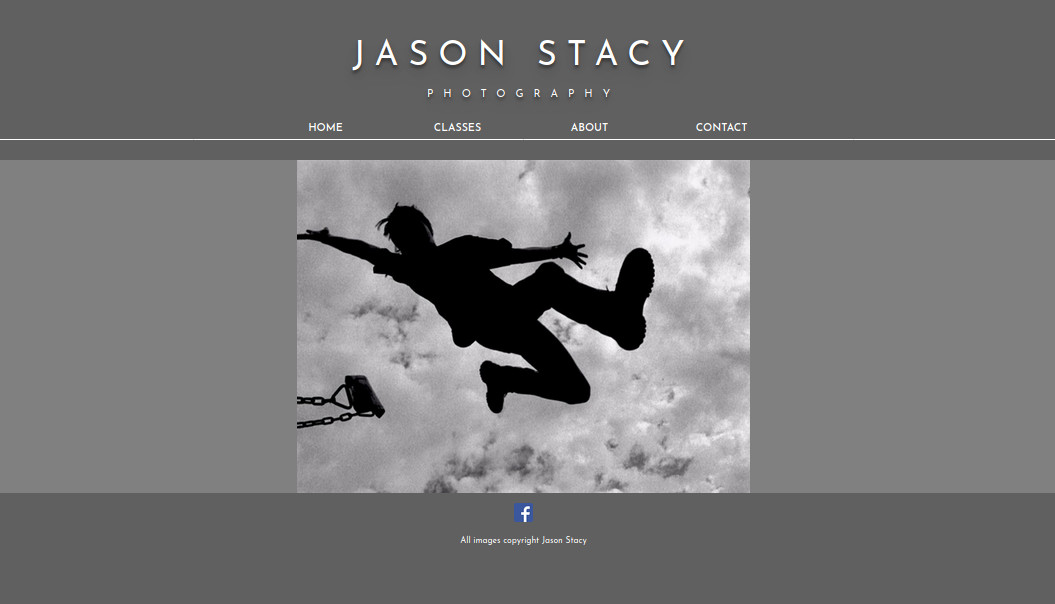
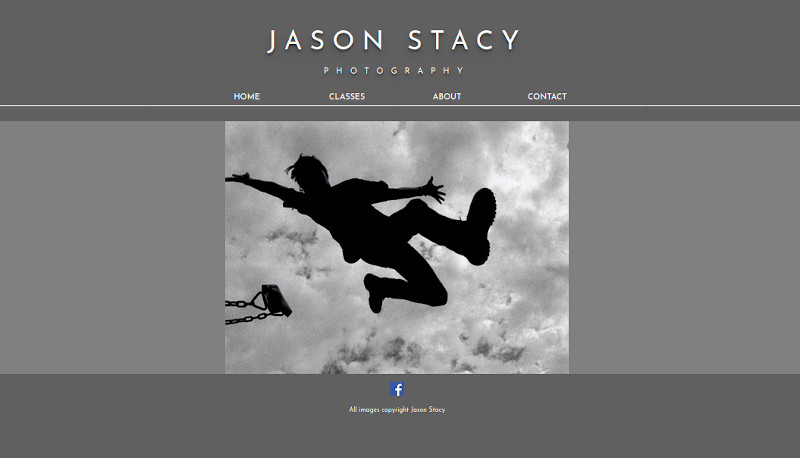
create web.html template

diff --git a/src/styles/web_styles.css b/src/styles/web_styles.css
@@ -10,7 +10,7 @@
 
 body {
   font-family: 'Abel', sans-serif;
-  background-image: url("../images/back1.jpg");
+  background-image: url("../images/back2.jpg");
   background-color: #eeeeee;
   background-size: cover;
   -webkit-background-size: cover;
@@ -53,7 +53,7 @@ body {
 
 #hamnav {
   width: 100%;
-  background: #000;
+  background: black;
   top: 0;
 }
 
@@ -70,49 +70,32 @@ body {
 }
 
 header .title-box {
-  background: -webkit-gradient(linear, left top, right top, from(rgba(0, 0, 0, 0)), color-stop(10%, rgba(53, 53, 53, 0.82)), color-stop(30%, black), to(black));
-  background: linear-gradient(90deg, rgba(0, 0, 0, 0) 0%, rgba(53, 53, 53, 0.82) 10%, black 30%, black 100%);
-  margin-left: 30%;
-  margin-right: 0px;
-  margin-top: 5%;
-  margin-bottom: 50%;
+  text-align: center;
+  vertical-align: middle;
+  background: -webkit-gradient(linear, left top, left bottom, from(rgba(53, 53, 53, 0.82)), color-stop(45%, black), color-stop(55%, black), to(rgba(53, 53, 53, 0.82)));
+  background: linear-gradient(180deg, rgba(53, 53, 53, 0.82) 0%, black 45%, black 55%, rgba(53, 53, 53, 0.82) 100%);
+  height: 70px;
+  -webkit-box-shadow: 10px 9px 5px -1px rgba(0, 0, 0, 0.26);
+          box-shadow: 10px 9px 5px -1px rgba(0, 0, 0, 0.26);
+  display: -webkit-box;
+  display: -ms-flexbox;
+  display: flex;
+  -webkit-transition: letter-spacing 1s;
+  transition: letter-spacing 1s;
+  width: 300px;
+  margin: auto;
+  margin-top: 50px;
   text-align: center;
   border-radius: .2em;
-  -webkit-animation-name: fade-in;
-          animation-name: fade-in;
-  -webkit-animation-duration: 4s;
-          animation-duration: 4s;
-}
-
-@-webkit-keyframes fade-in {
-  from {
-    opacity: 0;
-  }
-  to {
-    opacity: 1;
-  }
-}
-
-@keyframes fade-in {
-  from {
-    opacity: 0;
-  }
-  to {
-    opacity: 1;
-  }
 }
 
 header .title-box h1 {
   font-size: 2rem;
-  letter-spacing: 0.5em;
+  margin: auto;
+  text-align: center;
 }
 
-header .title-box h2 {
-  font-size: 2rem;
-}
-
-main {
-  height: 1600px;
+body {
   display: -webkit-box;
   display: -ms-flexbox;
   display: flex;
@@ -123,35 +106,32 @@ main {
   -webkit-box-pack: justify;
       -ms-flex-pack: justify;
           justify-content: space-between;
+  min-height: 100vh;
 }
 
-main .page-link {
-  text-align: center;
-  vertical-align: middle;
-  background: -webkit-gradient(linear, left top, left bottom, from(rgba(53, 53, 53, 0.82)), color-stop(45%, black), color-stop(55%, black), to(rgba(53, 53, 53, 0.82)));
-  background: linear-gradient(180deg, rgba(53, 53, 53, 0.82) 0%, black 45%, black 55%, rgba(53, 53, 53, 0.82) 100%);
-  height: 150px;
-  -webkit-box-shadow: 10px 9px 5px -1px rgba(0, 0, 0, 0.26);
-          box-shadow: 10px 9px 5px -1px rgba(0, 0, 0, 0.26);
+main {
   display: -webkit-box;
   display: -ms-flexbox;
   display: flex;
-  -webkit-transition: letter-spacing 1s;
-  transition: letter-spacing 1s;
-}
-
-main .page-link:hover {
-  letter-spacing: .5em;
-}
-
-main .page-link p {
+  -webkit-box-orient: vertical;
+  -webkit-box-direction: normal;
+      -ms-flex-direction: column;
+          flex-direction: column;
+  -webkit-box-pack: justify;
+      -ms-flex-pack: justify;
+          justify-content: space-between;
   margin: auto;
   text-align: center;
-  font-size: 150%;
 }
 
-main .page-link p a {
-  text-decoration: none;
+main article {
+  margin: auto;
+  width: 50%;
+  background-color: #333;
+}
+
+main article img {
+  max-width: 90%;
 }
 
 footer {
@@ -162,7 +142,6 @@ footer {
   -webkit-box-direction: normal;
       -ms-flex-direction: column;
           flex-direction: column;
-  margin-top: 300px;
   text-align: center;
   vertical-align: middle;
   background: -webkit-gradient(linear, left top, left bottom, from(rgba(53, 53, 53, 0.82)), color-stop(45%, black), color-stop(55%, black), to(rgba(53, 53, 53, 0.82)));
@@ -194,9 +173,6 @@ footer #contacts a {
 }
 
 @media screen and (min-width: 600px) {
-  header .title-box {
-    margin-left: 30%;
-  }
   /* Hide Hamburger */
   #hamnav label,
   #hamburger {

diff --git a/src/styles/web_styles.scss b/src/styles/web_styles.scss
@@ -5,71 +5,55 @@
 
 @include initialize;
 
-@include body("../images/back1.jpg");
+@include body("../images/back2.jpg");
 
 @include nav;
 
 header {
   .title-box {
-    background: linear-gradient(90deg, rgba(0, 0, 0, 0) 0%, $transparent_grey 10%, $black 30%, $black 100%);
-    margin-left: 30%;
-    margin-right: 0px;
-    margin-top: 5%;
-    margin-bottom: 50%;
+    @include page-link($height: 70px);
+    width: 300px;
+    margin: auto;
+    margin-top: 50px;
     text-align: center;
     border-radius: .2em;
-    animation-name: fade-in;
-    animation-duration: 4s;
-
-    @keyframes fade-in {
-      from {opacity: 0;}
-      to {opacity: 1;}
-    }
 
     h1 {
       font-size: 2rem;
-      letter-spacing: 0.5em
+      margin: auto;
+      text-align: center;
     }
 
-    h2 {
-      font-size: 2rem;
-    }
   }
 }
 
+body {
+    display: flex;
+flex-direction: column;
+justify-content: space-between;
+min-height: 100vh;
+}
+
 main {
-  height: 1600px;
-  display: flex;
-  flex-direction: column;
-  justify-content: space-between;
+    display: flex;
+    flex-direction: column;
+    justify-content: space-between;
+    margin: auto;
+    text-align: center;
 
-  .page-link {
-    @include page-link($height: 150px);
-
-    &:hover {
-      letter-spacing: .5em;
+    article {
+        margin:auto;
+        width: 50%;
+        background-color: $grey;
+        img {
+            max-width: 90%;
+        }
     }
-
-    p {
-      margin: auto;
-      text-align: center;
-      font-size: 150%;
-
-      a{
-        text-decoration: none;
-      }
-    }
-  }
 }
 
 @include footer;
 
 // Tablet and above size
 @media screen and (min-width: 600px) {
-  header {
-    .title-box {
-      margin-left: 30%;
-    }
-  }
   @include drop-down-menu;
 }

diff --git a/src/styles/style.css b/src/styles/style.css
@@ -53,7 +53,7 @@ body {
 
 #hamnav {
   width: 100%;
-  background: #000;
+  background: black;
   top: 0;
 }
 
@@ -162,7 +162,6 @@ footer {
   -webkit-box-direction: normal;
       -ms-flex-direction: column;
           flex-direction: column;
-  margin-top: 300px;
   text-align: center;
   vertical-align: middle;
   background: -webkit-gradient(linear, left top, left bottom, from(rgba(53, 53, 53, 0.82)), color-stop(45%, black), color-stop(55%, black), to(rgba(53, 53, 53, 0.82)));
@@ -191,6 +190,10 @@ footer #contacts {
 
 footer #contacts a {
   padding: 5px;
+}
+
+footer {
+  margin-top: 300px;
 }
 
 @media screen and (min-width: 600px) {

diff --git a/src/web.html b/src/web.html
@@ -30,11 +30,22 @@
 
         <div class="title-box">
             <h1>
-                Website Development
+                Web Development
             </h1>
         </div>
     </header>
     <main>
+        <section>
+            <article>
+                <h3>
+                    Jason Stacy Photography
+                </h3>
+                <img src="images/photography.jpg" alt="photography website">
+                <p>
+                    Some stuff about the website
+                </p>
+            </article>
+        </section>
         
     </main>
     <footer>

diff --git a/src/styles/partials/_mixins.scss b/src/styles/partials/_mixins.scss
@@ -73,7 +73,7 @@
       
       #hamnav {
         width: 100%;
-        background: #000;
+        background: $black;
         top: 0;
       
         a {
@@ -97,7 +97,7 @@
     footer {
         display: flex;
         flex-direction: column;
-        margin-top: 300px;
+
         @include page-link();
 
         #icons {

diff --git a/src/styles/style.scss b/src/styles/style.scss
@@ -28,7 +28,7 @@ header {
 
     h1 {
       font-size: 2rem;
-      letter-spacing: 0.5em
+      letter-spacing: 0.5em;
     }
 
     h2 {
@@ -63,6 +63,9 @@ main {
 }
 
 @include footer;
+footer {
+  margin-top: 300px;
+}
 
 // Tablet and above size
 @media screen and (min-width: 600px) {
